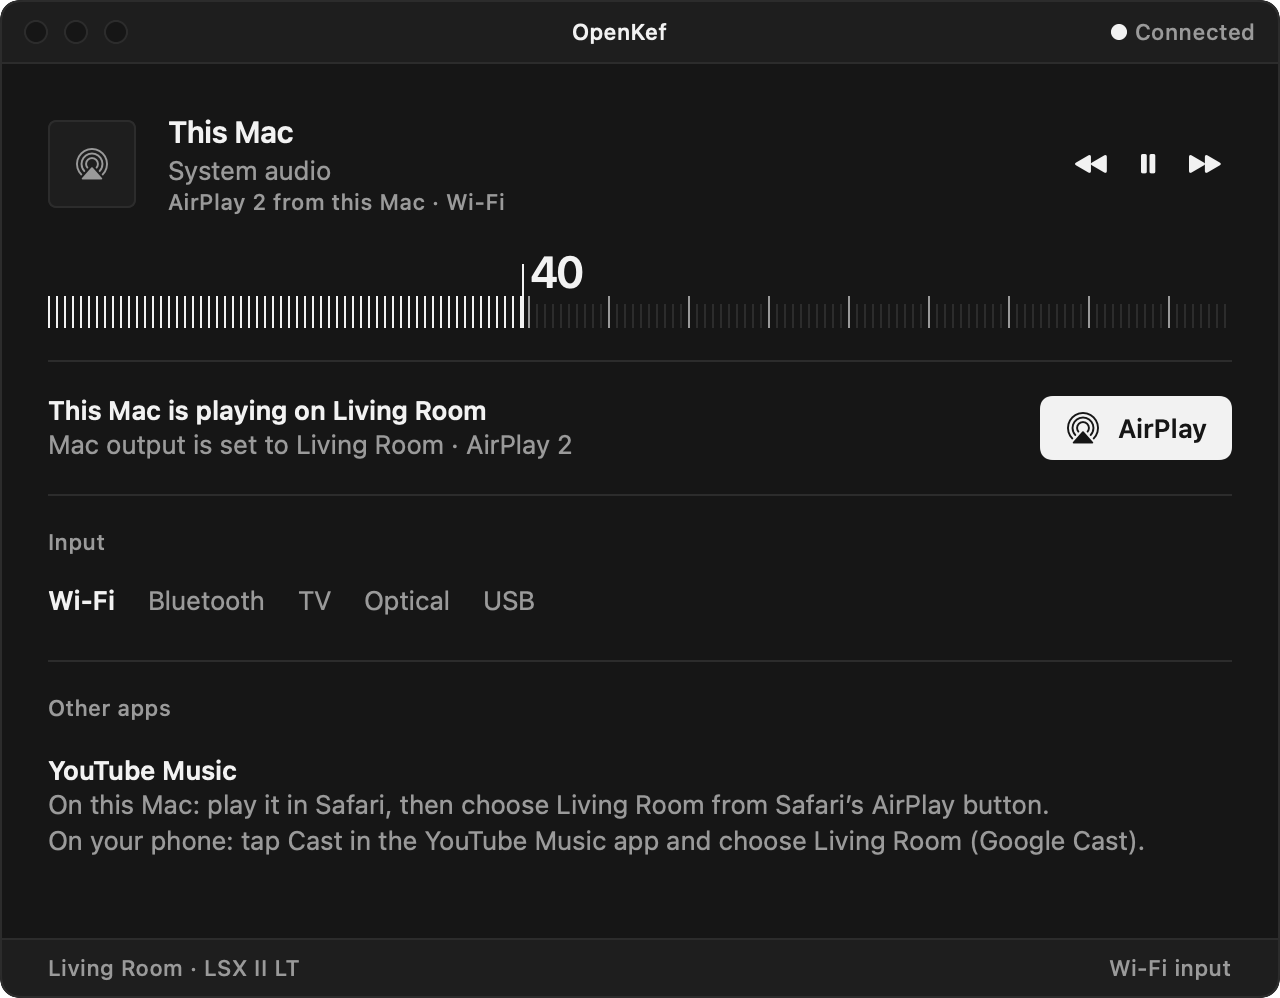
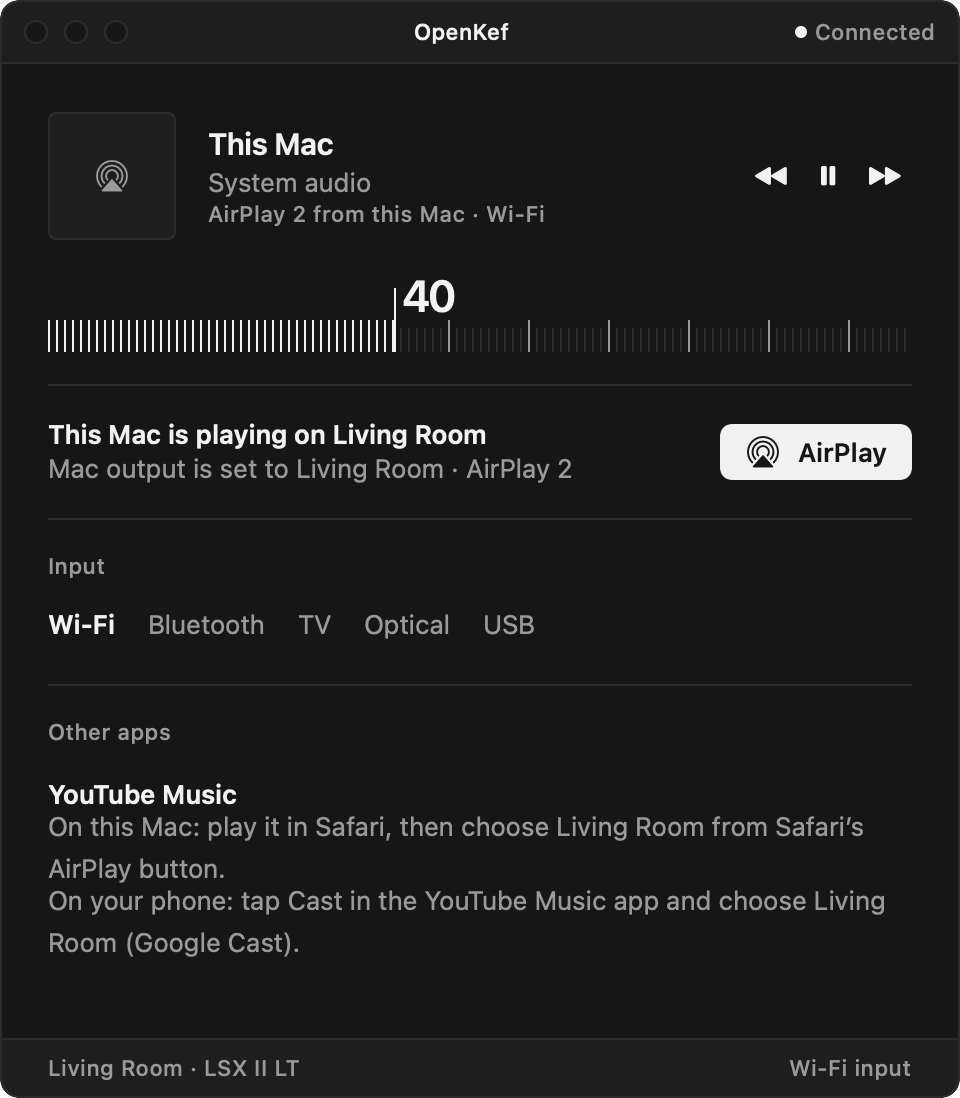
MET-11: tokens v0.4, idle device·source subline, panel opens Now Playing window
Cherry-picked tokens v0.4 (window 480, artLarge, status.dot, primary button). Idle shows
"Living Room · Wi-Fi" (device · source). Panel has a Now Playing control under the ruler that
opens the window (⌘0 still works). Snapshots refreshed.

diff --git a/apps/macos/Sources/OpenKef/NowPlayingWindow.swift b/apps/macos/Sources/OpenKef/NowPlayingWindow.swift
@@ -1,8 +1,7 @@
 import AVKit
 import SwiftUI
 
-// MET-11 Now Playing window (mockups/met-11, rev 2 + design snob bro's idle cut: no idle subline).
-// Tokens only. Window width is size.panelWidth × 2 (mockup placeholder; token request 1 open).
+// MET-11 Now Playing window (mockups/met-11 rev 2 + tokens v0.4). Idle subline = device · source.
 
 enum WindowState: Equatable { case playing, mac, idle, offline }
 
@@ -47,7 +46,8 @@ struct NowPlayingWindow: View {
             .padding(.top, T.Space.s5).padding(.horizontal, T.Space.s5).padding(.bottom, T.Space.s4)
             footer
         }
-        .frame(width: T.Size.panelWidth * 2)
+        .frame(minWidth: T.Window.minWidth, idealWidth: T.Window.width)
+        .frame(width: T.Window.width)
         .background(p.bg)
         .foregroundStyle(p.text)
         .overlay { if snapshot { RoundedRectangle(cornerRadius: T.Radius.panel).strokeBorder(p.line, lineWidth: 1) } }
@@ -72,7 +72,7 @@ struct NowPlayingWindow: View {
     }
     private var status: some View {
         HStack(spacing: T.Space.s1) {
-            RoundedRectangle(cornerRadius: T.Radius.control).fill(offline ? p.danger : p.text).frame(width: T.Space.s2, height: T.Space.s2)
+            Circle().fill(offline ? T.Status.offline(p) : T.Status.connected(p)).frame(width: T.Status.dot, height: T.Status.dot)
             Text(offline ? "Offline" : "Connected").typeStyle(T.TypeScale.label).foregroundStyle(offline ? p.danger : p.textMuted)
         }
         .accessibilityElement(children: .combine)
@@ -92,7 +92,7 @@ struct NowPlayingWindow: View {
         case .playing:
             let sub = [np.artist, np.album].filter { !$0.isEmpty }.joined(separator: " · ")
             return (np.title, sub.isEmpty ? nil : sub, model.state.source == "wifi" ? "AirPlay 2 · Wi-Fi" : src)
-        case .idle: return ("Nothing playing", nil, src)   // idle subline cut (design snob bro)
+        case .idle: return ("Nothing playing", "\(name) · \(src)", src)
         }
     }
 
@@ -126,7 +126,7 @@ struct NowPlayingWindow: View {
                 .foregroundStyle(offline ? p.danger : p.textMuted)
         }
         .font(.system(size: T.Icon.size, weight: T.Icon.weight))
-        .frame(width: T.Size.art, height: T.Size.art)
+        .frame(width: T.Size.artLarge, height: T.Size.artLarge)
         .accessibilityHidden(true)
     }
 
@@ -230,13 +230,13 @@ struct AirPlayButton: View {
     var body: some View {
         HStack(spacing: T.Space.s2) {
             Image(systemName: "airplayaudio").font(.system(size: T.Icon.size, weight: T.Icon.weight))
-            Text("AirPlay").font(.system(size: T.TypeScale.body.size, weight: T.TypeScale.title.weight))
+            Text("AirPlay").font(.system(size: T.TypeScale.body.size, weight: T.Button.Primary.labelWeight))
         }
-        .foregroundStyle(p.bg)
-        .padding(.horizontal, T.Space.s3)
-        .frame(height: T.Size.rowHeight)
-        .background(RoundedRectangle(cornerRadius: T.Radius.control).fill(p.accent))
-        .opacity(enabled ? 1 : T.Opacity.disabled)
+        .foregroundStyle(T.Button.Primary.labelColor(p))
+        .padding(.horizontal, T.Button.Primary.paddingX)
+        .frame(height: T.Button.Primary.height)
+        .background(RoundedRectangle(cornerRadius: T.Button.Primary.radius).fill(T.Button.Primary.fill(p)))
+        .opacity(enabled ? 1 : T.Button.Primary.disabledOpacity)
         .overlay { if !snapshot && enabled { RoutePicker().opacity(0.02) } }
         .accessibilityElement(children: .ignore)
         .accessibilityLabel("AirPlay")

diff --git a/apps/macos/Sources/OpenKef/PanelView.swift b/apps/macos/Sources/OpenKef/PanelView.swift
@@ -40,6 +40,7 @@ struct PanelView: View {
     /// Snapshot mode draws the mockup's `color.bg` + 1pt `color.line` edge instead of the live system material.
     var snapshot = false
     @Environment(\.colorScheme) private var scheme
+    @Environment(\.openWindow) private var openWindow
     @Environment(\.accessibilityReduceMotion) private var reduceMotion
 
     private var p: T.Palette { scheme == .dark ? T.dark : T.light }
@@ -56,6 +57,16 @@ struct PanelView: View {
             RulerView(volume: model.displayVolume, showLevel: !offline && !loading, loading: loading,
                       enabled: !offline && !loading, snapshot: snapshot, set: model.setVolume)
                 .padding(.top, T.Space.s5)
+            if !snapshot {
+                Button { openWindow(id: "now-playing") } label: {
+                    Text("Now Playing").typeStyle(T.TypeScale.label).foregroundStyle(p.textMuted)
+                        .frame(maxWidth: .infinity, alignment: .leading)
+                        .frame(height: T.Size.iconHit).contentShape(Rectangle())
+                }
+                .buttonStyle(.plain)
+                .accessibilityLabel("Now Playing")
+                .accessibilityHint("Opens the Now Playing window")
+            }
             sources.padding(.top, T.Space.s4)
             footer.padding(.top, T.Space.s2)
         }
